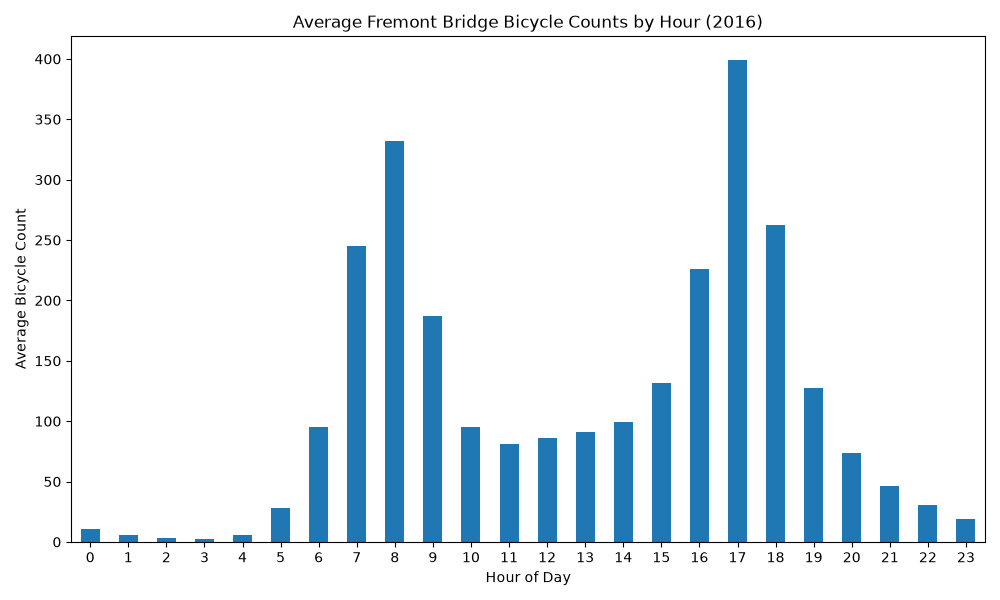
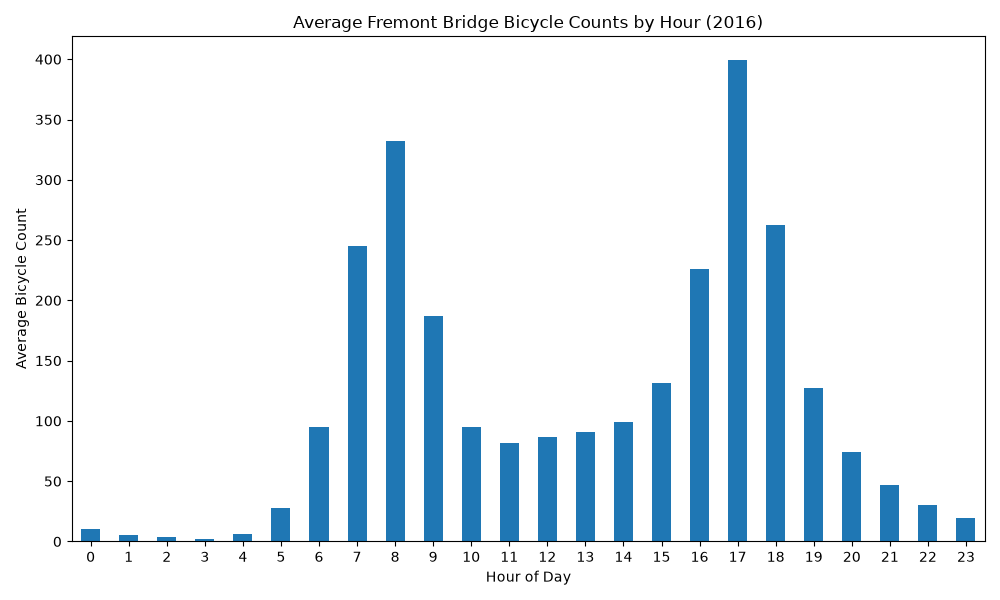
Complete HW1 bicycle data analysis

diff --git a/HW1/src/hw1_data_analysis/hw1.py b/HW1/src/hw1_data_analysis/hw1.py
@@ -1,5 +1,6 @@
 """Analyze Fremont Bridge bicycle counts for the CSE 583 HW1 assignment."""
 
+from datetime import datetime
 from pathlib import Path
 
 import matplotlib.pyplot as plt
@@ -10,12 +11,23 @@ DATA_FILE = Path(__file__).with_name("bicycle_data.csv")
 PLOT_FILE = Path(__file__).with_name("counts_by_hour.png")
 
 
+def decode_date(value):
+    """Decode the assignment's yyyy-mm-ddThh date or the CSV's date format."""
+    date_text = str(value)
+    if "T" in date_text:
+        return datetime.strptime(date_text, "%Y-%m-%dT%H")
+    if "\t" in date_text:
+        return datetime.strptime(date_text, "%Y-%m-%d\t%H")
+    return datetime.strptime(date_text, "%m/%d/%Y %I:%M:%S %p")
+
+
 def main():
     # Date is a timestamp (datetime64); the existing total, west, and east
     # sidewalk count columns are numeric counts (float64 because the CSV has
-    # missing observations). Parse the source Date text as datetime64.
+    # missing observations). Decode the date strings, then store the entire
+    # Date column as pandas datetime64 for date and time calculations.
     df = pd.read_csv(DATA_FILE)
-    df["Date"] = pd.to_datetime(df["Date"], format="%m/%d/%Y %I:%M:%S %p")
+    df["Date"] = pd.to_datetime(df["Date"].map(decode_date))
     west_column = "Fremont Bridge Sidewalks, south of N 34th St Cyclist West Sidewalk"
     east_column = "Fremont Bridge Sidewalks, south of N 34th St Cyclist East Sidewalk"
 

diff --git a/HW1/src/README.md b/HW1/src/README.md
@@ -1,2 +1,2 @@
-I loaded the bicycle data from the CSV file into a pandas DataFrame, converted the date and count columns to the appropriate data types, and added columns for the combined East and West counts, hour, and year. I then filtered the data to include only 2016, identified and excluded the one time point with missing count data, and grouped the remaining counts by hour. Finally, I plotted the average bicycle count for each hour and saved the chart as `counts_by_hour.png`. The analysis showed that 5:00 PM was the busiest hour on average.
-PS：I used AI as a tool to help me complete this assignment. It assisted me with writing and reviewing the Python code. I reviewed the results and used them to complete my work.
+I decoded the date strings and converted the `Date` column to pandas datetime format. Then I added columns for the combined East and West bicycle counts, the hour, and the year. I filtered the data to 2016, excluded the one time point with missing counts, and grouped the remaining data by hour. Finally, I plotted the average count for each hour and identified 5:00 PM as the busiest hour on average.
+I used AI to help write and review the Python code and analyze the bicycle count data. I reviewed the results and used them to complete my work.
